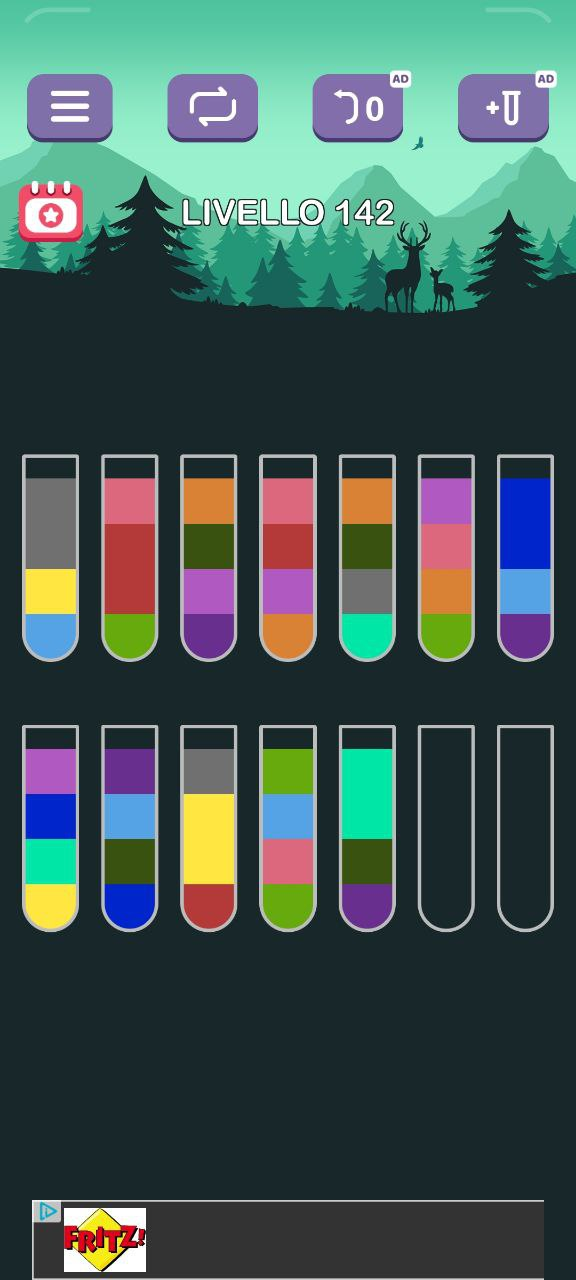
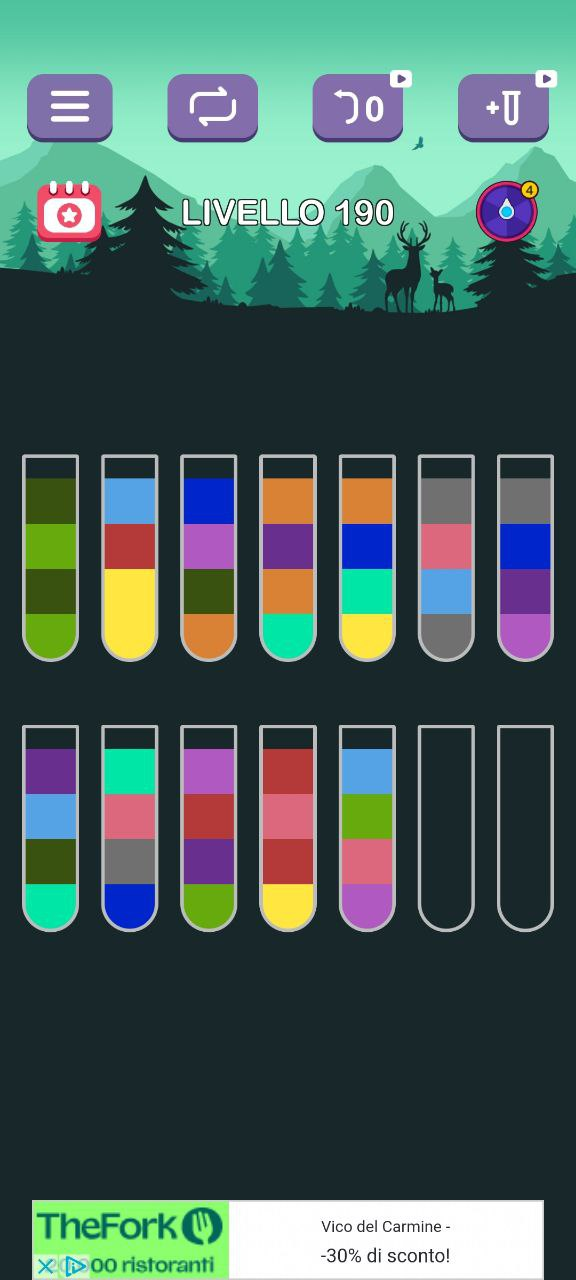
Adding solver
First solver attempt.

Known issues: too many moves, some of them useless, not moving the same color all together in same move

diff --git a/graph.py b/graph.py
@@ -1,0 +1,83 @@
+from copy import deepcopy
+
+
+class Board:
+    """Abstraction of state"""
+    def __init__(self, board, parent=None, from_which=-1, to_which=-1):
+        """Initialize a board(state)
+
+        Board and state are equivalent in our comments.
+
+        Args:
+            board [list[list]]: all bottles
+            parent [Board]: the parent of current state
+            from_which [int]: index of bottle which pops color blocks
+            to_which [int]: index of bottle which push color blocks
+        """
+        self.board = board
+        self.parent = parent
+        self.from_which = from_which
+        self.to_which = to_which
+
+    def next_boards(self):
+        """Successor function: all next states of the current state
+
+        Returns: list[Board]
+            All valid successive states from current state
+        """
+        next_states = []
+        n_bottles = len(self.board)
+
+        for i in range(n_bottles):
+            if self.board[i].finished:
+                continue
+            pseudo_pop_res = self.board[i].pop(pseudo=True)
+            if pseudo_pop_res is None:
+                continue
+
+            for j in range(n_bottles):
+                if i == j: continue
+                if self.board[j].finished:
+                    continue
+                pseudo_push_res = self.board[j].push(pseudo_pop_res, pseudo=True)
+                if pseudo_push_res == -1:
+                    continue
+
+                # Add your heuristic pruning strategies here
+                if self.board[i].size == len(pseudo_pop_res) and self.board[j].size == 0:
+                    continue
+
+                # generate new boards(states)
+                copied_board = deepcopy(self.board)
+                copied_board[j].push(copied_board[i].pop())
+                next_states.append(Board.board_factory(board=copied_board,
+                                                       parent=self,
+                                                       from_which=i,
+                                                       to_which=j))
+
+        return next_states
+
+    def state_checking(self):
+        """Whether current state is our goal state"""
+        for bottle in self.board:
+            print(bottle)
+            if not self._consisitent(bottle.data):
+                return False
+
+        return True
+
+    def _consisitent(self, bottle_data):
+        """Whether we have done with this bottle"""
+        return bottle_data[0] == bottle_data[1] and \
+            bottle_data[1] == bottle_data[2] and \
+            bottle_data[2] == bottle_data[3]
+
+    @property
+    def string(self):
+        """String representation of the current state"""
+        return "".join([bottle.string for bottle in self.board])
+
+    @classmethod
+    def board_factory(cls, board, parent=None, from_which=-1, to_which=-1):
+        """Generate new state"""
+        return cls(board, parent=parent, from_which=from_which, to_which=to_which)

diff --git a/solver.py b/solver.py
@@ -1,0 +1,65 @@
+#%%
+import copy
+
+
+def is_winning(state,max_length):
+    for i in range(len(state)):
+        if len(state[i]) > 0 and len(state[i]) != max_length:
+            return False
+        elif len(state[i]) == max_length:
+            if not all(state[i][0] == color_index for color_index in state[i]):
+                return False
+    return True
+
+def generate_neighbors(state,max_length):
+    candidate_rows = []
+    for i in range(len(state)):
+        if len(state[i]) < max_length:
+            if len(state[i]) == 0:
+                candidate_rows.append((i, -1))
+            else:
+                candidate_rows.append((i, state[i][-1]))
+
+    for i in range(len(state)):
+        if len(state[i]) > 0:
+            color_index = state[i][-1]
+            for j, dst_color_index in candidate_rows:
+            
+                if j != i and (color_index == dst_color_index or dst_color_index == -1):
+                    new_state = [
+                        [k for k in row] for row in state
+                    ]
+                    new_state[i].pop()
+                    new_state[j].append(color_index)
+
+                    new_state = tuple(tuple(row) for row in new_state)
+                    yield new_state, f"move from {i} to {j}"
+
+
+
+'''Implementation of depth first search algorithm'''
+
+def dfs(board,max_length):
+
+    frontier = [[board, []]]
+    seen_states = set()
+    seen_states.add(tuple(sorted(board)))
+    
+    i = 0
+    while True:
+        if len(frontier) == 0:
+            print("No solution found")
+            break
+        state, history = frontier.pop()
+        if is_winning(state,max_length):
+            print(f"Solution of size {len(history)} found in {i} iterations")
+            break
+        else:
+            for neighbor, text_description in generate_neighbors(state,max_length):
+                sorted_neighbor = tuple(sorted(neighbor))
+                if sorted_neighbor not in seen_states:
+                    new_history = copy.deepcopy(history) + [text_description]
+                    frontier.append([neighbor, new_history])
+                    seen_states.add(sorted_neighbor)
+        i += 1
+    return history

diff --git a/color_sorting.py b/color_sorting.py
@@ -3,6 +3,8 @@ import matplotlib.pyplot as plt
 import numpy as np
 from phial import phial
 from utils import *
+from graph import Board
+from solver import dfs
 
 #%%
 '''Find phials' contours'''
@@ -14,7 +16,7 @@ cnt = edge_detection(cut_img,10,40)
 number_of_phials = len(cnt)
 print('Number of phials: ', number_of_phials)
 cv.drawContours(cut_img, cnt, -1, (0, 255, 0), 2) 
-plt.imshow(cut_img) 
+# plt.imshow(cut_img) 
 #%%
 '''Drawing single phial with edges highlighted'''
 global_colori = []
@@ -23,18 +25,21 @@ offset_rect_y = 30
 offset_rect_x = 10
 
 global_matrix = []
+global_n_colors = []
 for c in cnt:
     x, y, w, h = cv.boundingRect(c)
     container_region = cut_img[y+offset_rect_y:y+h-offset_rect_y,x+offset_rect_x :x+w-offset_rect_x]
     colors = phial(container_region)
     contours,y_lims = colors.edge_color_detection(container_region)
-    plt.figure(i)
+    # plt.figure(i)
     cv.drawContours(container_region, contours, -1, (0, 255, 0), 2)
-    plt.imshow(container_region)
+    # plt.imshow(container_region)
     n_colors = colors.extracting_colors(y_lims)
     global_matrix.append(n_colors)
+    global_n_colors.append(len(n_colors))
     i = i +1
 
+max_color_number = np.max(global_n_colors)
 #%%
 '''Substitute RGB list with a single number as index'''
 
@@ -53,3 +58,9 @@ for element in global_matrix:
         for index,j in enumerate(element):
             j = tuple(j)
             element[index] = mapping[j]
+        
+
+global_matrix = tuple([tuple(np.flip(t)) for t in global_matrix])
+#%%
+history = dfs(global_matrix,max_color_number)
+#%%

diff --git a/input.py b/input.py
@@ -1,0 +1,20 @@
+from graph import Bottle
+
+
+def get_start_board():
+    """Start board of the game level n
+
+    Modify this function if you want to play new game level
+
+    NOTE: COLORS SHOULD BE INPUTED FROM BOTTOL BOTTOM TO TOP
+    """
+    N_BOTTLES = 14  # total number of bottles including empty bottles
+    global_board = []
+    bottles = [[] for _ in range(N_BOTTLES)]
+    
+
+    for i in range(N_BOTTLES):
+        _bottle = Bottle(i, bottles[i])
+        global_board.append(_bottle)
+
+    return global_board

diff --git a/utils.py b/utils.py
@@ -17,8 +17,10 @@ def focus_on_phials(img):
 #%%
 def edge_detection(cut_img,low_thresh,high_thresh):
     gray = cv.cvtColor(cut_img, cv.COLOR_RGB2GRAY) 
+    
     gauss = cv.GaussianBlur(gray, (11, 11), 0) 
     canny = cv.Canny(gauss,low_thresh,high_thresh)
     cnt, _ = cv.findContours( 
     canny.copy(), cv.RETR_EXTERNAL, cv.CHAIN_APPROX_NONE)
+    plt.imshow(canny)
     return cnt

diff --git a/phial.py b/phial.py
@@ -6,7 +6,7 @@ class phial():
         self.container_region = container_region
         
     def edge_color_detection(self,container_region):
-        cnt = edge_detection(container_region,0,6)        
+        cnt = edge_detection(container_region,0,10)
         y_lims = [cnt[i][1][0][1] for i in range(0,len(cnt))]
         eps = 5
         diff = np.diff(y_lims)
